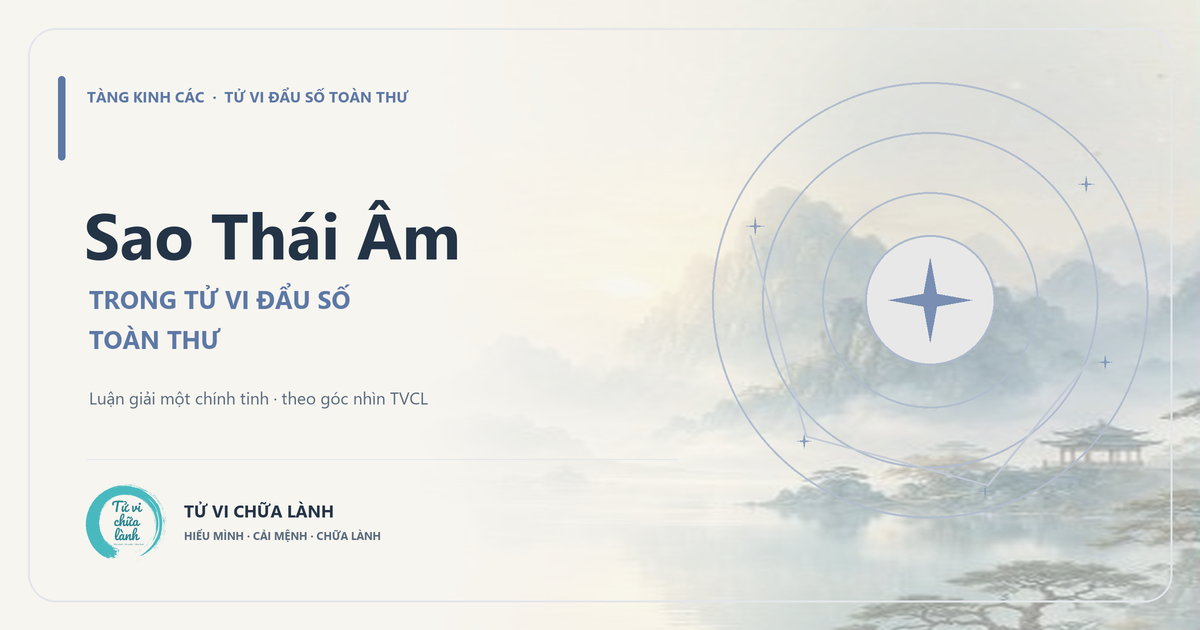
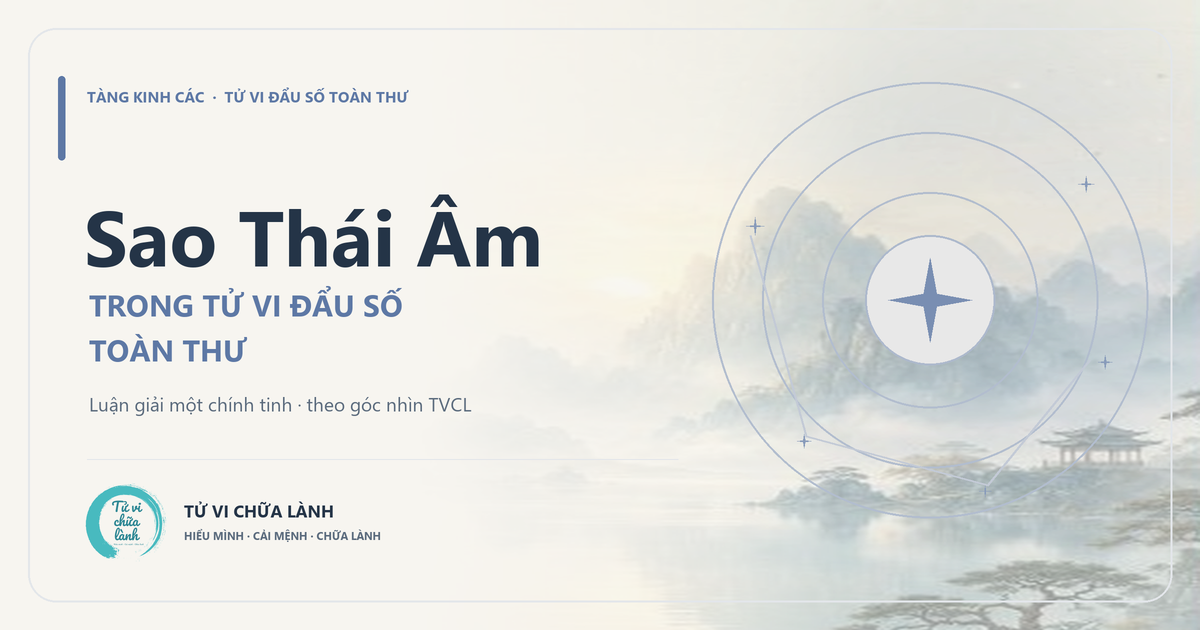
Increase text size on Toan Thu share images

Changed region(s): [[0.0617, 0.3016, 0.4625, 0.4222], [0.0617, 0.4524, 0.3392, 0.573], [0.0617, 0.6032, 0.4008, 0.6635]]

diff --git a/scripts/generate_toan_thu_share_images.py b/scripts/generate_toan_thu_share_images.py
@@ -53,6 +53,14 @@ def f(size: int, bold: bool = False) -> ImageFont.FreeTypeFont:
     return ImageFont.truetype(str(FONT_BOLD if bold else FONT_REG), size * SCALE)
 
 
+def fitted_font(text: str, max_size: int, max_width: int) -> ImageFont.FreeTypeFont:
+    for size in range(max_size, 67, -1):
+        font = f(size, True)
+        if font.getlength(text) / SCALE <= max_width:
+            return font
+    return f(67, True)
+
+
 def draw_star(draw: ImageDraw.ImageDraw, cx: int, cy: int, radius: int, color: tuple[int, int, int], alpha: int = 255) -> None:
     points = []
     for index in range(8):
@@ -118,15 +126,16 @@ def make_image(title: str, accent_hex: str, hub: bool = False) -> Image.Image:
     draw.text((87 * SCALE, 86 * SCALE), "TÀNG KINH CÁC  ·  TỬ VI ĐẨU SỐ TOÀN THƯ", font=f(15, True), fill=(*accent, 255))
 
     if hub:
-        draw.text((84 * SCALE, 194 * SCALE), "Tử Vi Đẩu Số", font=f(58, True), fill=(*ink, 255))
-        draw.text((84 * SCALE, 270 * SCALE), "Toàn Thư", font=f(58, True), fill=(*ink, 255))
+        draw.text((84 * SCALE, 185 * SCALE), "Tử Vi Đẩu Số", font=f(74, True), fill=(*ink, 255))
+        draw.text((84 * SCALE, 272 * SCALE), "Toàn Thư", font=f(74, True), fill=(*ink, 255))
         draw.rounded_rectangle((87 * SCALE, 370 * SCALE, 466 * SCALE, 413 * SCALE), radius=21 * SCALE, fill=(*tint((30, 154, 163), paper, .09), 255), outline=(*tint((30, 154, 163), paper, .34), 255), width=1 * SCALE)
-        draw.text((107 * SCALE, 379 * SCALE), "TRA CỨU 14 CHÍNH TINH", font=f(16, True), fill=(30, 121, 129, 255))
+        draw.text((107 * SCALE, 379 * SCALE), "TRA CỨU 14 CHÍNH TINH", font=f(18, True), fill=(30, 121, 129, 255))
     else:
-        draw.text((84 * SCALE, 190 * SCALE), "Sao " + title, font=f(64, True), fill=(*ink, 255))
-        draw.text((89 * SCALE, 282 * SCALE), "TRONG TỬ VI ĐẨU SỐ", font=f(25, True), fill=(*accent, 255))
-        draw.text((89 * SCALE, 322 * SCALE), "TOÀN THƯ", font=f(25, True), fill=(*accent, 255))
-        draw.text((89 * SCALE, 386 * SCALE), "Luận giải một chính tinh · theo góc nhìn TVCL", font=f(17), fill=(*muted, 255))
+        heading = "Sao " + title
+        draw.text((84 * SCALE, 182 * SCALE), heading, font=fitted_font(heading, 78, 600), fill=(*ink, 255))
+        draw.text((89 * SCALE, 284 * SCALE), "TRONG TỬ VI ĐẨU SỐ", font=f(30, True), fill=(*accent, 255))
+        draw.text((89 * SCALE, 329 * SCALE), "TOÀN THƯ", font=f(30, True), fill=(*accent, 255))
+        draw.text((89 * SCALE, 391 * SCALE), "Luận giải một chính tinh · theo góc nhìn TVCL", font=f(19), fill=(*muted, 255))
 
     draw.line((87 * SCALE, 459 * SCALE, 678 * SCALE, 459 * SCALE), fill=(227, 230, 234, 255), width=1 * SCALE)
     return base.convert("RGB").resize((W, H), Image.Resampling.LANCZOS)
